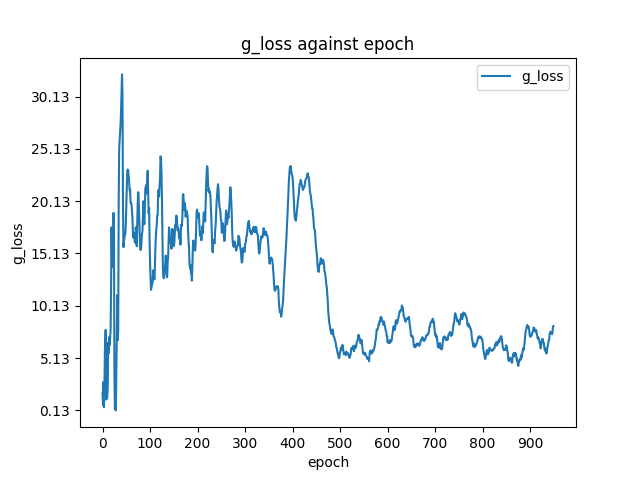
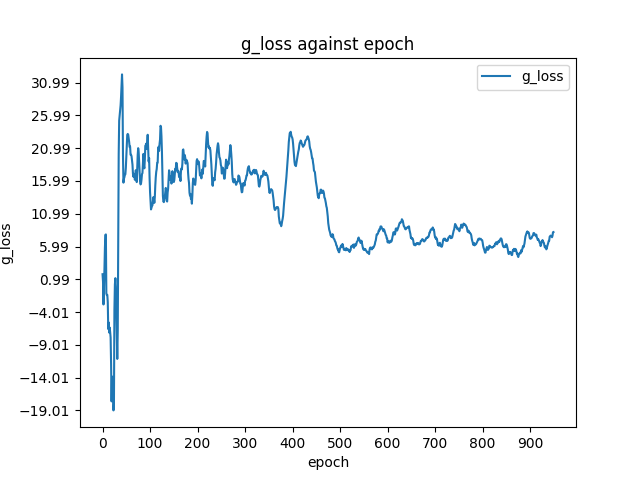
clean up plots

diff --git a/plot_histories_graph.py b/plot_histories_graph.py
@@ -28,7 +28,7 @@ def plot_loss_graphs(args):
     save_graph(train_df, config.DISCRIMINATOR_LOSS_KEY)
 
     # Plot for W Distance
-    save_graph(train_df, config.W_D_KEY, should_negate = False)    
+    save_graph(train_df, config.W_D_KEY)    
 
     # Plot for G_LOSS
     save_graph(train_df, config.G_LOSS_KEY, y_tick_steps=5)
@@ -36,16 +36,30 @@ def plot_loss_graphs(args):
     # Plot for VAL_LOSS
     save_graph(val_df, config.VAL_LOSS_KEY)
 
+    save_together_discriminator_generator_loss(train_df)
+
     print("Graphs saved to:", config.graph_dir)
 
-def save_graph(df, y_axis_key, should_negate=True, y_tick_steps=1):
+def save_graph(df, y_axis_key, y_tick_steps=1):
     graph_path = os.path.join(config.graph_dir, "{}_graph.png".format(y_axis_key))
-    if should_negate:
-        df[y_axis_key] = df[y_axis_key].apply(lambda x: abs(x))
     y_ticks = np.arange(min(df[y_axis_key]), max(df[y_axis_key]), y_tick_steps)
     x_ticks = np.arange(min(df[config.EPOCH_KEY]), max(df[config.EPOCH_KEY]), 100)
     title = f"{y_axis_key} against {config.EPOCH_KEY}"
     df.plot(x=config.EPOCH_KEY,y=y_axis_key, ylabel = y_axis_key, xlabel = config.EPOCH_KEY, title = title, yticks=y_ticks, xticks=x_ticks)
+    plt.savefig(graph_path)
+
+def save_together_discriminator_generator_loss(df):
+    graph_path = os.path.join(config.graph_dir, "{}_{}_graph.png".format(config.DISCRIMINATOR_LOSS_KEY, config.G_LOSS_KEY))
+    plt.clf()
+    y_ticks = np.arange(min(df[config.G_LOSS_KEY]), max(df[config.G_LOSS_KEY]), 5)
+    x_ticks = np.arange(min(df[config.EPOCH_KEY]), max(df[config.EPOCH_KEY]), 100)
+    plt.yticks(y_ticks)
+    plt.xticks(x_ticks)
+    plt.plot(df[config.DISCRIMINATOR_LOSS_KEY])
+    plt.plot(df[config.G_LOSS_KEY])
+    plt.ylabel('Loss')
+    plt.xlabel(config.EPOCH_KEY)
+    plt.legend([config.DISCRIMINATOR_LOSS_KEY, config.G_LOSS_KEY])
     plt.savefig(graph_path)
 
 
